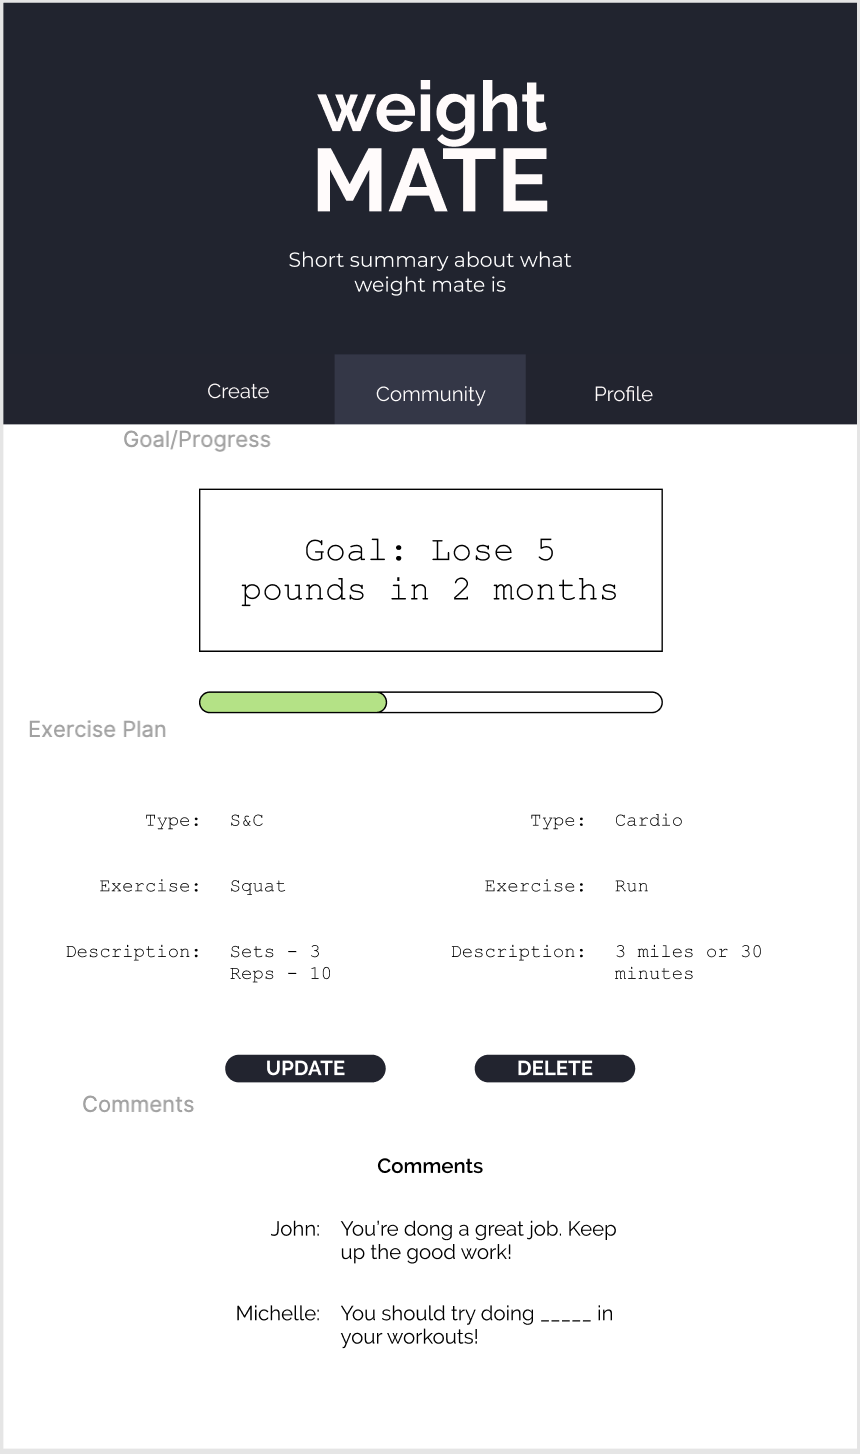
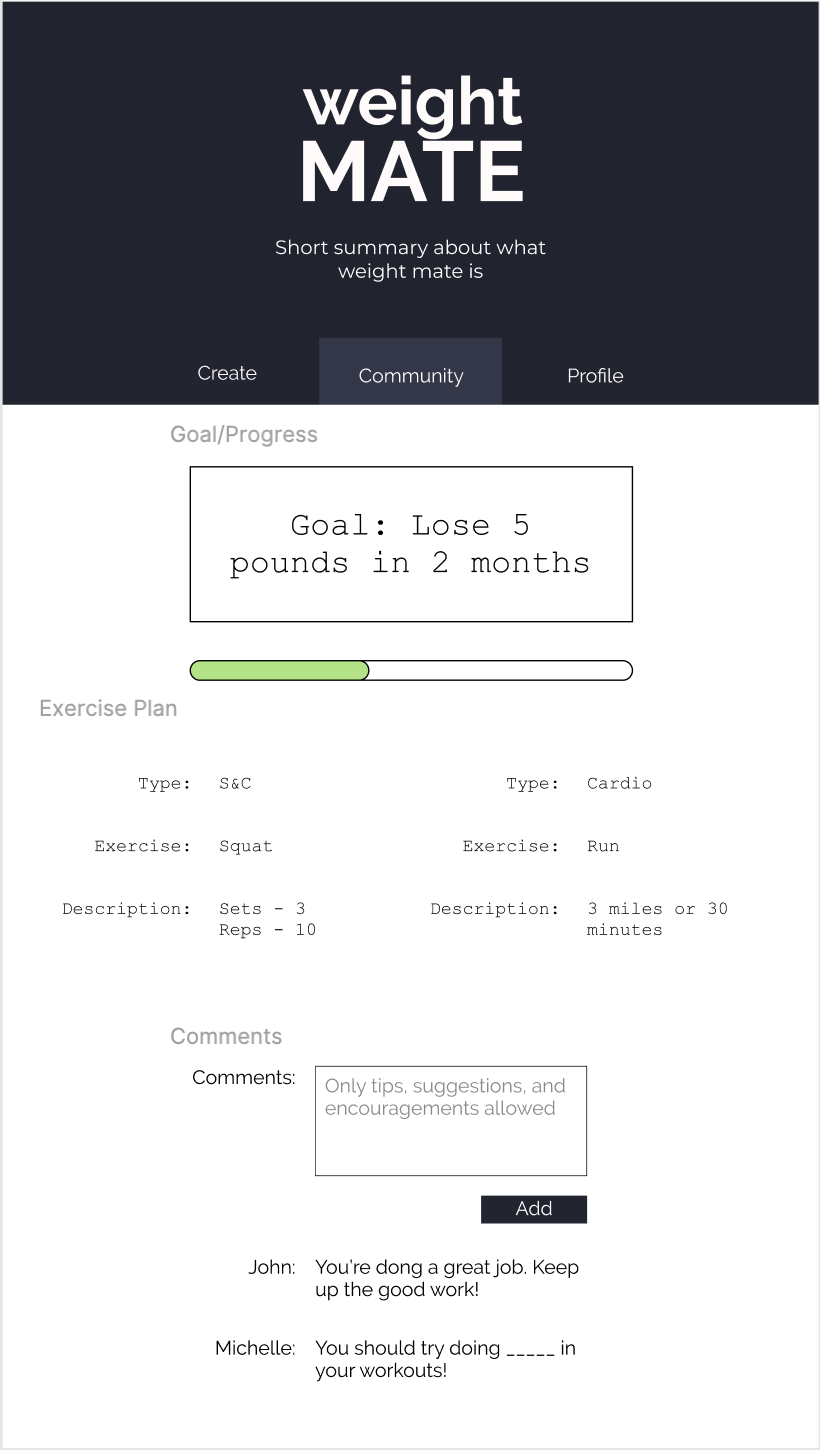
specific exercises for a plan shows in the plan show page

diff --git a/src/ShowPlan/index.js b/src/ShowPlan/index.js
@@ -1,4 +1,6 @@
 import React from 'react'
+import CreateExercise from '../CreateExercise'
+import ExerciseList from './ExerciseList'
 
 class ShowPlan extends React.Component {
 	constructor() {
@@ -6,6 +8,8 @@ class ShowPlan extends React.Component {
 
 		this.state = {
 			editing: false,
+			creatingX: false,
+			exercises: [],
 			plan: {},
 			goalType: '',
 			current: '',
@@ -16,6 +20,7 @@ class ShowPlan extends React.Component {
 
 	componentDidMount() {
 		this.getPlan()
+		this.getExercises()
 	}
 
 	getPlan = async () => {
@@ -39,10 +44,66 @@ class ShowPlan extends React.Component {
 		})
 	}
 
+	getExercises = async () => {
+		const { id } = this.props.match.params
+
+		const allExercises = await fetch('http://localhost:9000/exercise/', {
+			method: 'GET',
+			credentials: 'include'
+		})
+
+		if (allExercises.status !== 200) {
+			throw Error('allExercises is not running')
+		}
+
+		const allExercisesResponse = await allExercises.json()
+
+		const planExercises = allExercisesResponse.data.filter(exercise => exercise.planId === id)
+
+		this.setState({exercises: planExercises})
+	}
+
 	editingToggle = (e) => {
 		e.preventDefault()
 
 		this.setState({editing: true})
+	}
+
+	creatingToggle = (e) => {
+		e.preventDefault()
+
+		this.setState({creatingX: true})
+	}
+
+	addExercise = async (exercise) => {
+		try {
+			exercise.planId = this.state.plan._id
+
+			const addedExercise = await fetch('http://localhost:9000/exercise/', {
+				method: 'POST',
+				credentials: 'include',
+				body: JSON.stringify(exercise),
+				headers: {
+					'Content-Type': 'application/json'
+				}
+			})
+
+			if (addedExercise.status !== 200) {
+				throw Error('createdExercise is not running')
+			}
+
+			const addedExerciseResponse = await addedExercise.json()
+			console.log(addedExerciseResponse, '<---- addedExerciseResponse');
+
+			this.setState({
+				exercises: [...this.state.exercises, addedExerciseResponse.data]
+			})
+
+			this.props.history.push('/plan/' + this.props.match.params.id)
+			
+		} catch (err) {
+			console.log(err);
+		}
 	}
 
 	deletePlan = async (e) => {
@@ -59,6 +120,8 @@ class ShowPlan extends React.Component {
 
 		this.props.history.push('/community')
 	}
+	
+	// ================= CREATING THE PLAN ================= //
 
 	handleChange = (e) => {
 		this.setState({
@@ -101,6 +164,8 @@ class ShowPlan extends React.Component {
 			plan: updatedPlanResponse.data
 		})
 	}
+
+	// ================= CREATING THE PLAN ================= //
 
 	render() {
 		console.log(this.state, '<---- this.state in ShowPlan');
@@ -148,6 +213,15 @@ class ShowPlan extends React.Component {
 						</form> 
 						: null
 					}
+
+					<ExerciseList exercises={this.state.exercises}/>
+
+					{this.state.plan.user === this.props.userId ? 
+						<div>
+							<p onClick={this.creatingToggle}>+ Add Exercise</p>
+							{this.state.creatingX ? <CreateExercise addExercise={this.addExercise}/> : null}
+						</div>
+					: null}
 			</div>
 		)
 	}

diff --git a/src/CreateExercise/index.js b/src/CreateExercise/index.js
@@ -1,11 +1,48 @@
 import React from 'react'
 
 class CreateExercise extends React.Component {
+	constructor() {
+		super()
+
+		this.state = {
+			type: '',
+			activity: '',
+			description: ''
+		}
+	}
+
+	handleChange = (e) => {
+		this.setState({
+			[e.currentTarget.name]: e.currentTarget.value
+		})
+	}
 
 	render() {
+		console.log(this.state, '<---- state in CreateExercise');
 		return (
 			<div>
-				<p>Create Exercise</p>
+				<form onSubmit={this.props.addExercise.bind(null, this.state)}>
+					<select name="type" onChange={this.handleChange}>
+						<option value="DEFAULT" hidden>Select an Option </option>
+						<option value="Strength & Conditioning">Strength & Conditioning</option>
+						<option value="Cardio">Cardio</option>
+					</select><br />
+					<input 
+						type="text" 
+						name="activity" 
+						placeholder="Activity" 
+						value={this.state.activity}
+						onChange={this.handleChange}
+					/><br />
+					<input 
+						type="textarea" 
+						name="description" 
+						placeholder="e.g. Sets, Reps, Duration, etc." 
+						value={this.state.description}
+						onChange={this.handleChange}
+					/><br />
+					<button>Create</button>
+				</form>
 			</div>
 		)
 	}

diff --git a/src/ShowPlan/ExerciseList.js b/src/ShowPlan/ExerciseList.js
@@ -1,0 +1,28 @@
+import React from 'react'
+
+const ExerciseList = (props) => {
+
+	const allExercises = props.exercises.map((exercise) => {
+		return (
+			<div key={exercise._id}>
+				<div>Type: {exercise.type}</div>
+				<div>Activity: {exercise.activity}</div>
+				<div>Description: {exercise.description}</div><br />
+			</div>
+		)
+	})
+
+	console.log(allExercises, '<---- allExercises');
+	
+	return (
+		<div>
+			<h1>Exercises</h1>
+			<div>{allExercises}</div>
+		</div>
+	)
+}
+
+
+
+
+export default ExerciseList

diff --git a/src/SignIn/Register/index.js b/src/SignIn/Register/index.js
@@ -31,7 +31,6 @@ class Register extends React.Component {
 		});
 
 		const parsedRegister = await register.json();
-		console.log(parsedRegister, '<---- parsedRegister');
 
 		if (parsedRegister.code === 200) {
 			console.log('logged in');
@@ -44,7 +43,6 @@ class Register extends React.Component {
 
 
 	render() {
-		console.log(this.state, '<---- this.state in Register');
 		return (
 			<div>
 				<h2>Register</h2>

diff --git a/src/SignIn/Login/index.js b/src/SignIn/Login/index.js
@@ -29,7 +29,6 @@ class Login extends React.Component {
 		})
 
 		const parsedLogin = await login.json()
-		console.log(parsedLogin, '<---- parsedLogin');
 
 		if (parsedLogin.code === 200) {
 			console.log('User is logged in');
@@ -43,7 +42,6 @@ class Login extends React.Component {
 
 
 	render() {
-		console.log(this.state, '<---- this.state in Login');
 		return(
 			<div>
 				<h2>Login</h2>

diff --git a/src/Community/CommunityList.js b/src/Community/CommunityList.js
@@ -14,7 +14,9 @@ const CommunityList = (props) => {
 				<div>{plan.goalType}</div>
 				<div>{plan.current}</div>
 				<div>{plan.goal}</div>
-				<div>Created by: {plan.user.firstName} {plan.user.lastName}</div><br />
+				<div>Created by: {plan.user.firstName} {plan.user.lastName}</div>
+				
+				<br />
 			</div>
 		)
 	})
